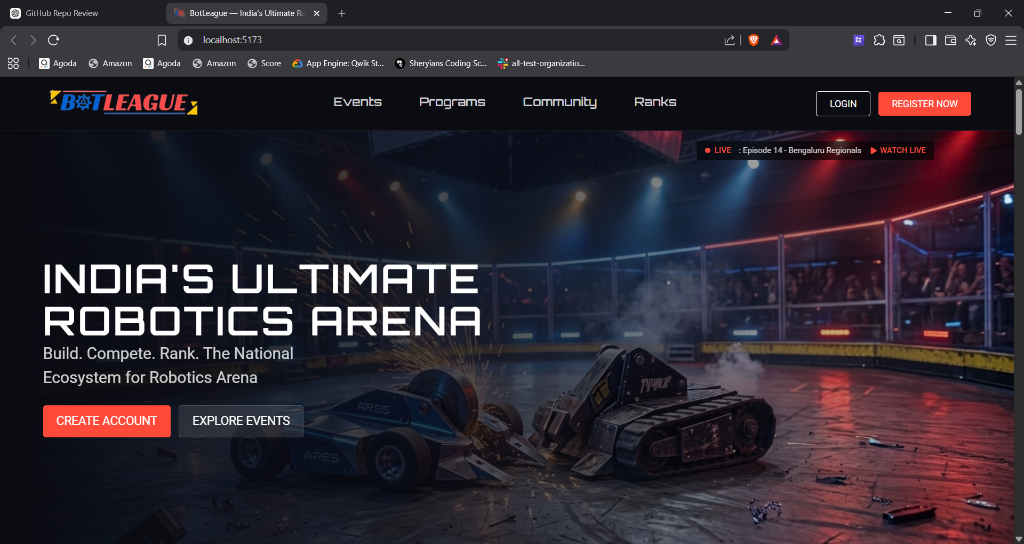
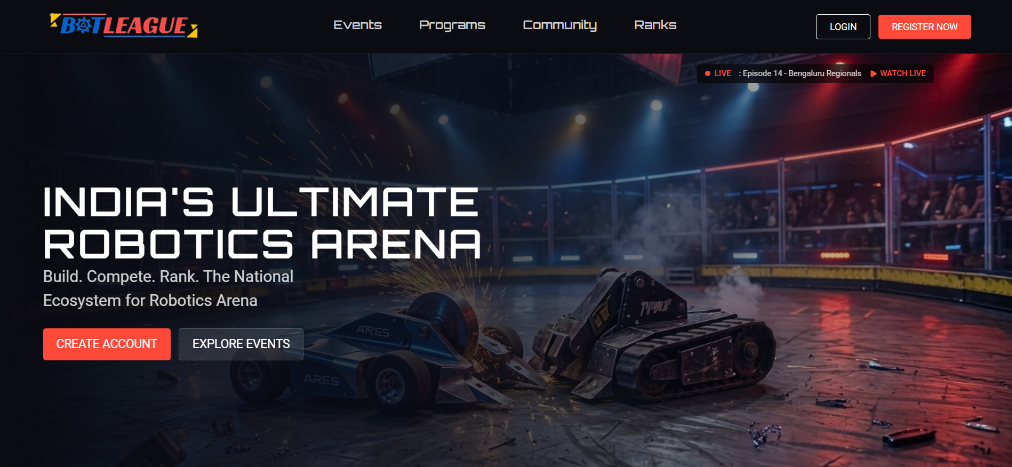
readme file updated

diff --git a/README.md b/README.md
@@ -104,16 +104,8 @@ The output bundle will be generated in the `dist/` directory.
 
 ## Deployment
 
-- **Live Demo**: [Live Demo Placeholder Link](https://botleague.example.com)
+- **Live Demo**: [Live Demo Placeholder Link](https://bot-league-puce.vercel.app/)
 - **GitHub Repository**: [https://github.com/RashikaLahoti/BotLeague](https://github.com/RashikaLahoti/BotLeague)
-
-## Future Improvements
-
-- **Dark Mode Support**: Implementing a standard CSS variable-based dark/light theme toggle sync.
-- **Transition Animations**: Adding micro-interactions and route transition transitions using libraries like Framer Motion.
-- **Accessibility (a11y) Enhancements**: Adding complete ARIA attribute coverages and custom keyboard navigation controls.
-- **Performance Optimization**: Dynamic lazy loading of heavy section components and WebP image optimizations.
-- **SEO Improvements**: Custom routing metadata injection via router loaders to support search engine crawlers.
 
 ## License
 
